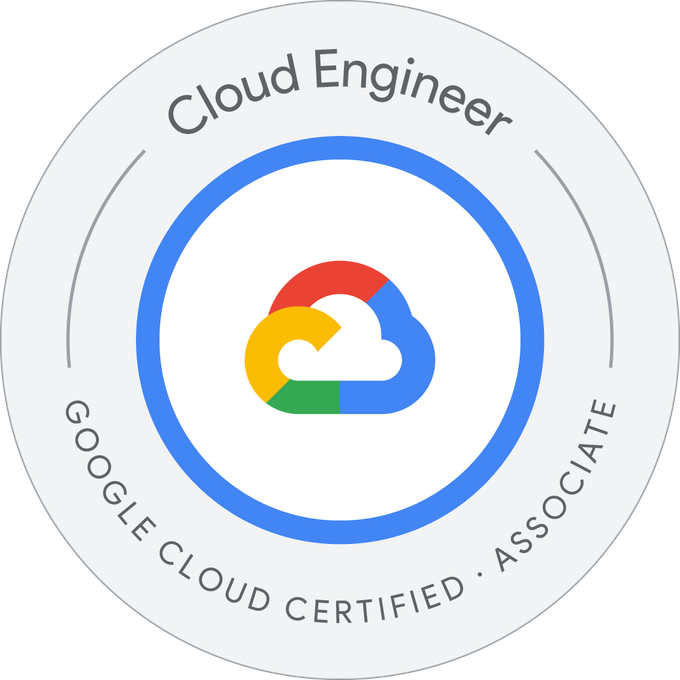
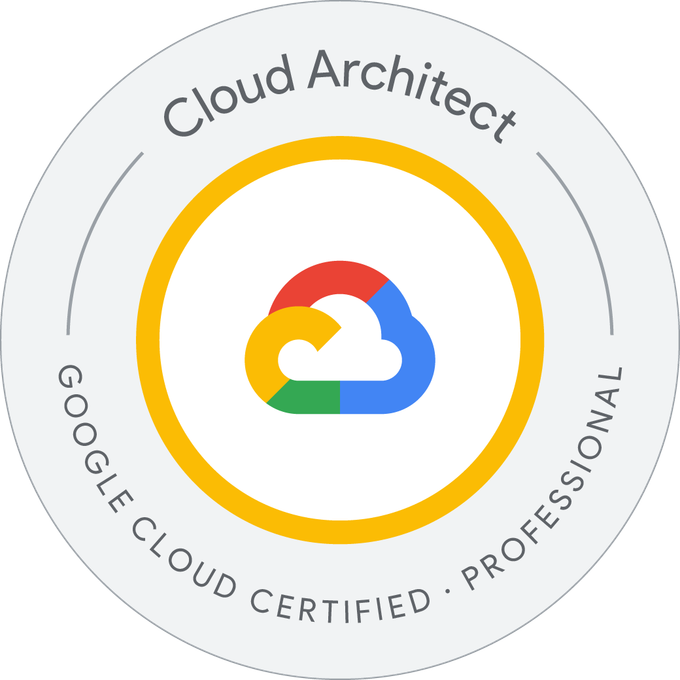
update cv and certificate

Changed region(s): [[0.1853, 0.1853, 0.8029, 0.8029], [0.0926, 0.4941, 0.9265, 0.9265], [0.2162, 0.0618, 0.7721, 0.2162]]

diff --git a/index.html b/index.html
@@ -90,15 +90,12 @@
               <div class="content-container">
                 <div class="home-content" id="home-section"><!---Download CV-->
                   <div class="download-cv"><a
-                      href="https://drive.google.com/file/d/1ymMrgx6VeAIMdF8A2iQYo0lcBAnGGOha/view?usp=drive_link"
+                      href="https://drive.google.com/file/d/1tG07V-YrXUJa3rsSZU9DjVaq6O0RNkNl/view?usp=drive_link"
                       class="theme-btn download-btn"><i class="icon"><img src="static/picture/cv-1.png" alt=""></i><span
                         class="txt">Downlod CV</span></a></div><!--Welcome-->
                   <div class="welcome">
                     <h4>Summary</h4>
-                    <div class="text">Skilled software engineer pursuing an M.S. in Computer Science at Georgia Tech.
-                      Proficient in Java, Python, and JavaScript, with experience in full-stack development and software
-                      architecture. Passionate about programming and eager to apply my skills to develop impactful,
-                      cutting-edge software solutions.</div>
+                    <div class="text">I am a software engineer with a strong focus on backend, full-stack, and AI-driven systems, currently pursuing an M.S. in Computer Science at Georgia Tech. I enjoy building scalable, reliable products at the intersection of engineering, data, and machine intelligence, especially where automation can meaningfully improve user experience and operational efficiency.</div>
                   </div>
 
                   <!--Features-->
@@ -311,16 +308,7 @@
                             Software Development
                             Process, Software Architecture & Design, Computer Networks, Network Security, Data Analytics
                             & Security</div>
-                        </div>
-                      </div><!--Block-->
-                      <div class="edu-block col-lg-6 col-md-6 col-sm-12">
-                        <div class="inner-box">
-                          <div class="date"><span>2019 - 2020 </span></div>
-                          <h5>Udacity — Nano Degree in Front End Edveloper</h5>
-                          <div class="text">Coursework: CSS, Website Layout, Website Components, JavaScript & The DOM,
-                            Web APIs and
-                            Asynchronous Applications, Build Tools and Single Page Web Apps</div>
-                            <a href="https://www.udacity.com/certificate/9JA5RPH" target="_blank" class="arrow_icon">
+                            <a href="https://drive.google.com/file/d/1Y2SfY-6zP7vNBRs4vo_3MyTgIuHwDX02/view?usp=drive_link" target="_blank" class="arrow_icon">
                               <img class="svg" src="static/image/arrow.svg" alt="">
                             </a>
                         </div>
@@ -347,24 +335,35 @@
                     <div class="main-title"><span class="icon"><img src="static/picture/award-1.png"
                           alt=""></span><span class="txt">Certification</span></div>
                     <div class="row clearfix"><!--Block-->
-                      <div class="edu-block col-lg-6 col-md-6 col-sm-12">
+                      <div class="edu-block col-lg-4 col-md-6 col-sm-12">
                         <div class="inner-box">
-                          <div class="date"><span>Issued Feb. 2025 </span></div>
-                          <h5>Google Professional Data Engineer Certification</h5>
+                          <div class="date"><span>Issued Jan. 2026 </span></div>
+                          <h5>Google Professional Cloud Architect</h5>
                           <div class="text" style="text-align: center; margin-top: 25px;">
-                            <a href="https://www.credly.com/badges/ac24a1f6-f1c9-446c-9000-170e539478c2/linked_in_profile" target="_blank">
-                              <img src="static/image/data.png" alt="Data Engineer" style="width: 130px; height: 130px;">
+                            <a href="https://www.credly.com/badges/bf272dff-21b6-4bdb-a704-b5364647a0d8/linked_in_profile" target="_blank">
+                              <img src="static/image/cloud.png" alt="Cloud Engineer" style="width: 130px; height: 130px;">
                             </a>
                           </div>
                         </div>
                       </div><!--Block-->
-                      <div class="edu-block col-lg-6 col-md-6 col-sm-12">
+                      <div class="edu-block col-lg-4 col-md-6 col-sm-12">
                         <div class="inner-box">
-                          <div class="date"><span>Issued Dec. 2024 </span></div>
-                          <h5>Google Associate Cloud Engineer Certification</h5>
+                          <div class="date"><span>Issued Nov. 2025 </span></div>
+                          <h5>AWS Certified AI Practitioner<br>&nbsp;</h5>
                           <div class="text" style="text-align: center; margin-top: 25px;">
-                            <a href="https://www.credly.com/badges/fb5df908-3e86-4c88-9815-f97f27578cb4/linked_in_profile" target="_blank">
-                              <img src="static/image/cloud.png" alt="Cloud Engineer" style="width: 130px; height: 130px;">
+                            <a href="https://www.credly.com/badges/30948ef9-2299-4f77-866a-3ffae3cad157/linked_in_profile" target="_blank">
+                              <img src="static/image/aws.png" alt="Cloud Engineer" style="width: 130px; height: 130px;">
+                            </a>
+                          </div>
+                        </div>
+                      </div><!--Block-->
+                      <div class="edu-block col-lg-4 col-md-6 col-sm-12">
+                        <div class="inner-box">
+                          <div class="date"><span>Issued Feb. 2025 </span></div>
+                          <h5>Google Professional Data Engineer</h5>
+                          <div class="text" style="text-align: center; margin-top: 25px;">
+                            <a href="https://www.credly.com/badges/ac24a1f6-f1c9-446c-9000-170e539478c2/linked_in_profile" target="_blank">
+                              <img src="static/image/data.png" alt="Data Engineer" style="width: 130px; height: 130px;">
                             </a>
                           </div>
                         </div>
@@ -439,17 +438,34 @@
                       <div class="main-title"><span class="icon"><img src="static/picture/experience-1.png"
                             alt=""></span><span class="txt">Work Experience</span></div>
                       <div class="row clearfix"><!--Block-->
+                        <div class="edu-block col-12">
+                          <div class="inner-box">
+                            <div class="date"><span>Nov. 2025 - Current</span></div>
+                            <h5>MetricStream — AI Engineer / Product Manager</h5>
+                            <div class="text">
+                              <ul> • Led the redesign of a legacy enterprise Risk Register into a streamlined, AI-first application, achieving a 60% reduction in user onboarding time by replacing manual data entry with LLM-powered auto-generation for risk descriptions, categories, and relevant controls based on risk titles.
+                              </ul>
+                              <ul> • Architected a schema-driven configuration engine for custom risk assessment methodologies (e.g., factor-based approach and dynamic m * n heatmaps) via a no-code interface; utilized AI-assisted validation to ensure user-defined assessment structures align with organizational standards.
+                              </ul>
+                            </div>
+                            <a href="https://www.metricstream.com/" target="_blank" class="arrow_icon">
+                              <img class="svg" src="static/image/arrow.svg" alt="">
+                            </a>
+                          </div>
+                        </div><!--Block-->
 
                         <div class="edu-block col-12">
                           <div class="inner-box">
-                            <div class="date"><span>Jul. 2025 - Current</span></div>
+                            <div class="date"><span>Jul. 2025 - Sept. 2025</span></div>
                             <h5>Mina — Software Engineer Intern</h5>
                             <div class="text">
-                              <ul> • Transformed a single registration page into a robust, multi-step flow using React and TypeScript, implementing real-time validation and OAuth 2.0 to boost sign-up conversion rates by 15%.
+                              <ul> • Transformed a single registration page into a robust, multi-step flow using React and TypeScript, implementing real-time validation and OAuth 2.0 to boost sign-up conversion rates by 50%.
                               </ul>
-                              <ul> • Implemented an AI-powered 'Easy Listing' feature that automates product data entry from photos, reducing average listing time by 60% while simultaneously detecting faces/PII and guiding users through remediation for any sensitive content.
+                              <ul> • Implemented an AI-powered 'Easy Listing' feature that automates product data entry from photos, reducing average listing time by 60% while simultaneously detecting  and blocking sensitive content.
                               </ul>
-                              <ul> • Architected a scalable and resilient video processing pipeline for high-value product listings, supporting large file uploads with chunking and resumable capabilities that reduced upload failures by 90%.
+                              <ul> • Implemented an email verification feature and optimized it with client-side debouncing and server-side rate limiting, resolving ‘too many requests’ errors and improving system stability.
+                              </ul>
+                              <ul> • Implemented a user-friendly feedback system (floating button to backend API) that captured technical context and linked reports to Sentry events, achieving 90% faster bug resolution.
                               </ul>
                             </div>
                             <a href="https://www.getmina.app/" target="_blank" class="arrow_icon">
@@ -489,49 +505,12 @@
                               </ul>
                               <ul> • Refined the story generation framework by testing/evaluating predefined prompt variations stored in a dictionary, selecting top performers to optimize content quality and increase user satisfaction by 17%.
                               </ul>
-                              <ul> • Built a Google Cloud Function to dynamically serve personalized story pages through RESTful API endpoints, enabling real-time sharing and smooth integration with the app’s frontend.
-                              </ul>
-                              
                             </div>
                             <a href="https://stoneye.ai/" target="_blank" class="arrow_icon">
                               <img class="svg" src="static/image/arrow.svg" alt="">
                             </a>
                           </div>
                         </div><!--Block-->
-
-                        <div class="edu-block col-12">
-                          <div class="inner-box">
-                            <div class="date"><span>2020 - 2023</span></div>
-                            <h5>LASTEM — Curriculum Developer</h5>
-                            <div class="text">
-                              <ul> • Developed and designed engaging STEAM and computer science activities tailored to
-                                specific age groups,
-                                inspiring student enthusiasm and promoting computational thinking</ul>
-                              <ul> • Participated as a judge in the 2021 China-UK STEAM Innovation Competition (Jiangsu
-                                Trials)</ul>
-                              <ul> • Provided training to over 50 teachers on incorporating STEAM and computer science
-                                into their curriculum design</ul>
-                            </div>
-                          </div>
-                        </div><!--Block-->
-
-                        <div class="edu-block col-12">
-                          <div class="inner-box">
-                            <div class="date"><span>2018 - 2019</span></div>
-                            <h5>CAML Academy — Teaching Assistant</h5>
-                            <div class="text">
-                              <ul> • Instructed children in coding using Scratch and led them in completing projects such
-                                as "Fashion and
-                                Design", "Create Google Logo", and "The Amazing World of Gumball"</ul>
-                              <ul> • Contributed to the course localization in China, including market analysis,
-                                promotion, and website
-                                development</ul>
-                              <ul> • Utilized effective data visualization design to build Tableau dashboards, providing
-                                key metrics and
-                                insights to support entry into the Chinese market</ul>
-                            </div>
-                          </div>
-                        </div>
                       </div>
                     </div>
                   </div>
@@ -656,12 +635,14 @@
           </div>
           <!--Copyright-->
           <div class="site-footer">
-            <div class="copyright">&copy;2025 by Yejun Kong. All Rights Reserved.</div>
+            <div class="copyright">&copy;2026 by Yejun Kong. All Rights Reserved.</div>
           </div>
         </div>
       </div><!--End Site Container -->
     </div><!--End pagewrapper--><!--Scroll to top-->
-    <div class="scroll-to-top scroll-to-target" data-target="html"><span class="fas fa-arrow-up"></span></div>
+    <div class="scroll-to-top scroll-to-target" data-target="html" style="display: block !important; position: fixed; bottom: 30px; right: 30px; width: 55px; height: 55px; background: #fd7030; border-radius: 50%; z-index: 99999; cursor: pointer; box-shadow: 0 4px 12px rgba(0,0,0,0.4);">
+      <span class="fas fa-arrow-up" style="color: white; font-size: 22px; line-height: 55px;"></span>
+    </div>
     <script src="static/js/jquery.js"></script>
     <script src="static/js/popper.min.js"></script>
     <script src="static/js/bootstrap.min.js"></script>

diff --git a/static/css/style.css b/static/css/style.css
@@ -258,18 +258,19 @@ img {
     position: fixed;
     bottom: 20px;
     right: 20px;
-    width: 44px;
-    height: 52px;
+    width: 50px;
+    height: 50px;
     color: #fff;
-    font-size: 15px;
+    font-size: 18px;
     text-transform: uppercase;
-    line-height: 52px;
+    line-height: 50px;
     text-align: center;
-    z-index: 100;
+    z-index: 9999;
     cursor: pointer;
-    border-radius: 4px;
+    border-radius: 50%;
     background: #fd7030;
-    display: none;
+    display: block;
+    box-shadow: 0 4px 8px rgba(0, 0, 0, 0.3);
     -webkit-transition: all 300ms ease;
     -ms-transition: all 300ms ease;
     -o-transition: all 300ms ease;
